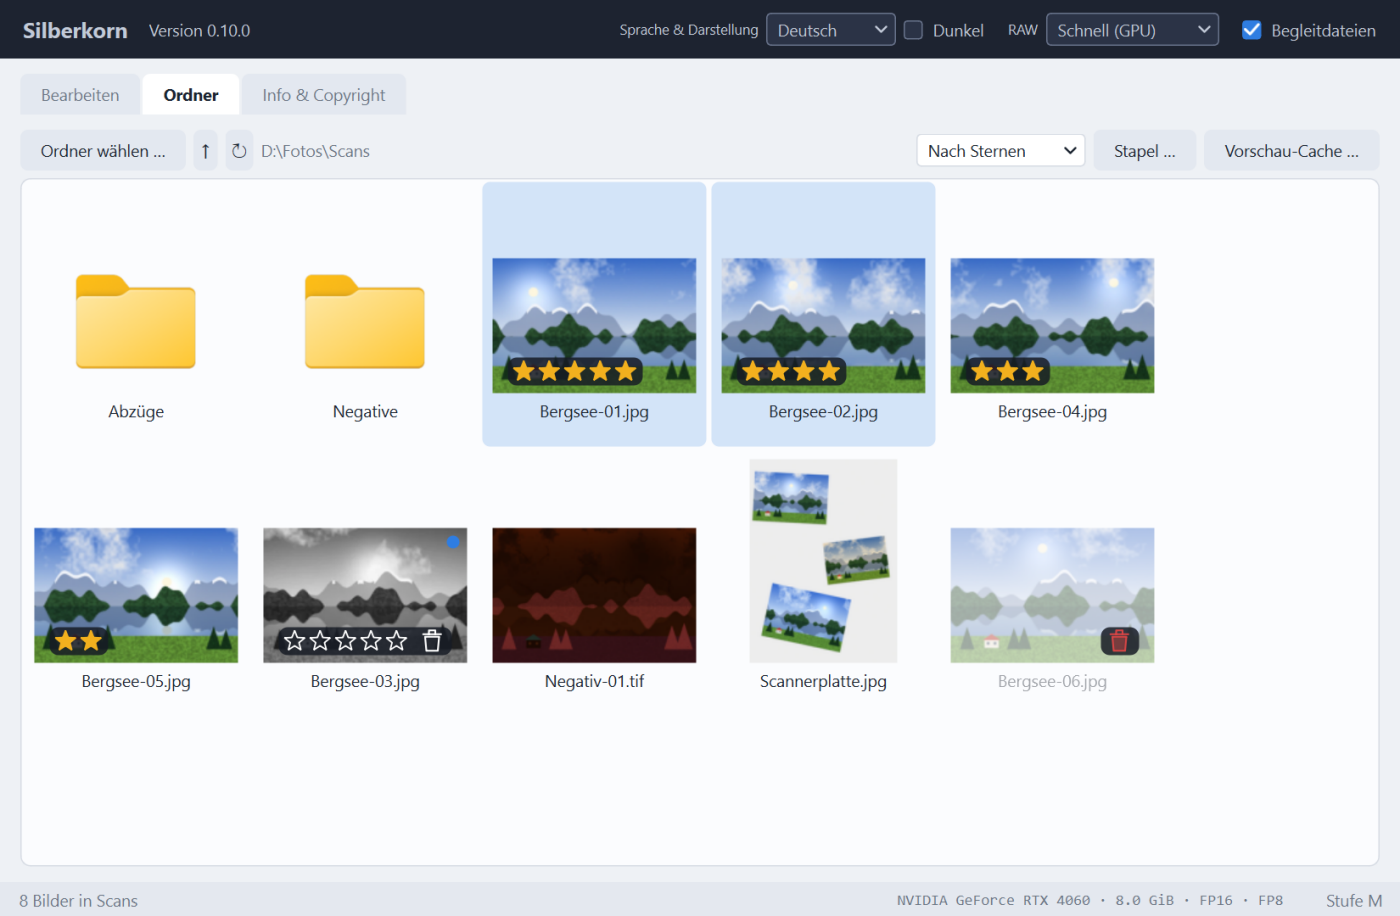
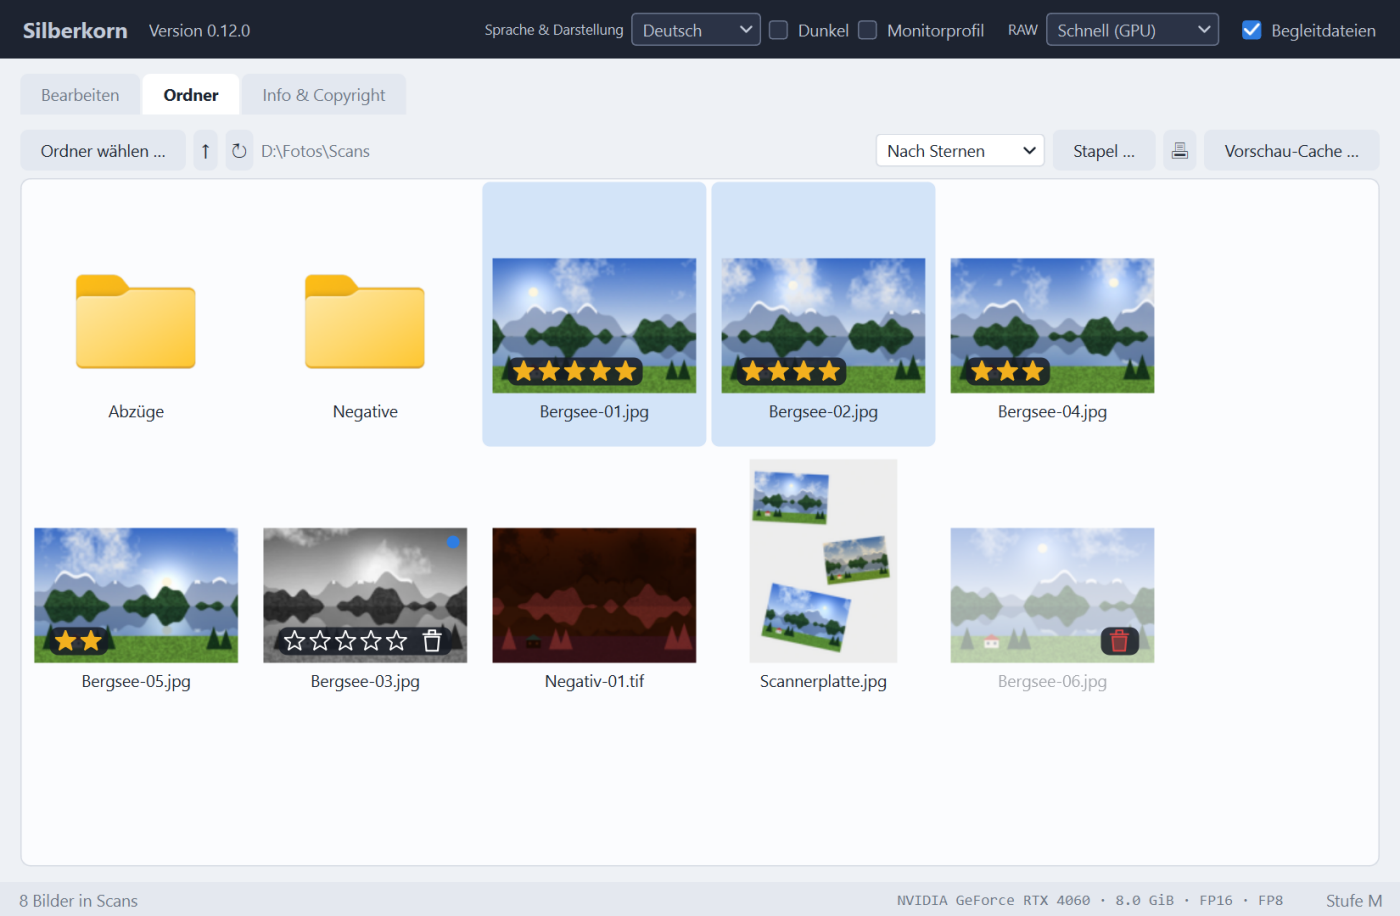
Version 0.12.0
Auto-Begradigen, Monitorprofil und Kontaktbogen. CHANGELOG-Abschnitt mit
Datum, README-Kurzliste ergänzt, Bildschirmfotos neu erzeugt.

Changed region(s): [[0.3379, 0.0, 0.7064, 0.0611], [0.645, 0.1528, 0.86, 0.1834]]

diff --git a/silberkorn/__init__.py b/silberkorn/__init__.py
@@ -10,4 +10,4 @@ Projekt ist unabhaengig und steht in keiner Verbindung zu NVIDIA.
 """
 
 PROGRAMM = "Silberkorn"
-VERSION = "0.11.0"
+VERSION = "0.12.0"

diff --git a/README.md b/README.md
@@ -29,14 +29,15 @@ Unterstützt Hardwarebeschleunigung über NVIDIA CUDA und Grafikkarten der RTX-S
 - **KI-Werkzeuge**: Hochskalieren, Motiv und Hintergrund (BiRefNet), Objekt per Klick
   (SAM 2), Objekte entfernen (LaMa), Tiefe und Bokeh (Depth Anything V2), Kolorieren
   und Erweitern.
-- **Geometrie und Objektiv**: Zuschnitt, Drehen, Begradigen, Perspektive und
-  Objektivkorrektur.
+- **Geometrie und Objektiv**: Zuschnitt, Drehen, Begradigen (auch automatisch),
+  Perspektive und Objektivkorrektur.
 - **16 Bit, RAW, Scan und Film**: RAW-Entwicklung auf der GPU, TIFF und PNG mit 16 Bit,
   Negative aus Scanner oder Kamera ins Positiv wandeln, Staub über den Infrarotkanal
   entfernen.
 - **Abgeben**: Anonymisieren, Metadaten bereinigen, für die Veröffentlichung speichern und
   Drucken.
-- **Arbeiten mit vielen Bildern**: Ordneransicht, Bewertung, Stapel und Voreinstellungen.
+- **Arbeiten mit vielen Bildern**: Ordneransicht, Bewertung, Stapel, Kontaktbogen und
+  Voreinstellungen.
 - **Nicht-destruktiv**: Rückgängig und Wiederholen, Einstellungen liegen in einer
   Begleitdatei neben dem Bild, das Original bleibt unverändert.
 

diff --git a/README.en.md b/README.en.md
@@ -29,12 +29,13 @@ Supports hardware acceleration via NVIDIA CUDA / RTX series GPUs.
   (Restormer) and film grain with adjustable strength and size.
 - **AI tools**: upscaling, subject and background (BiRefNet), object by click (SAM 2),
   remove objects (LaMa), depth and bokeh (Depth Anything V2), colourise and extend.
-- **Geometry and lens**: crop, rotate, straighten, perspective and lens correction.
+- **Geometry and lens**: crop, rotate, straighten (also automatically), perspective and lens
+  correction.
 - **16-bit, RAW, scan and film**: RAW development on the GPU, 16-bit TIFF and PNG,
   negatives from a scanner or camera turned into positives, dust removed via the
   infrared channel.
 - **Hand-off**: anonymise, clean metadata, save for publishing and print.
-- **Working with many images**: folder view, ratings, batch and presets.
+- **Working with many images**: folder view, ratings, batch, contact sheet and presets.
 - **Non-destructive**: undo and redo; settings live in a sidecar file next to the image
   and the original stays untouched.
 

diff --git a/CHANGELOG.md b/CHANGELOG.md
@@ -5,6 +5,8 @@ die Versionsnummern der [semantischen Versionierung](https://semver.org/lang/de/
 
 ## [Unveröffentlicht]
 
+## [0.12.0] – 2026-10-24
+
 ### Neu
 
 - **Auto-Begradigen**: Der Knopf „Auto“ auf der Karte „Geometrie“ erkennt die Neigung
@@ -648,7 +650,8 @@ die Versionsnummern der [semantischen Versionierung](https://semver.org/lang/de/
   Rechengenauigkeit (FP16, FP8 ab Ada, FP4 ab Blackwell).
 - Programmsymbol, Marken- und Lizenzhinweise (NOTICE).
 
-[Unveröffentlicht]: https://github.com/DerAlexmann/Silberkorn/compare/v0.11.0...HEAD
+[Unveröffentlicht]: https://github.com/DerAlexmann/Silberkorn/compare/v0.12.0...HEAD
+[0.12.0]: https://github.com/DerAlexmann/Silberkorn/releases/tag/v0.12.0
 [0.11.0]: https://github.com/DerAlexmann/Silberkorn/releases/tag/v0.11.0
 [0.10.0]: https://github.com/DerAlexmann/Silberkorn/releases/tag/v0.10.0
 [0.9.0]: https://github.com/DerAlexmann/Silberkorn/releases/tag/v0.9.0
